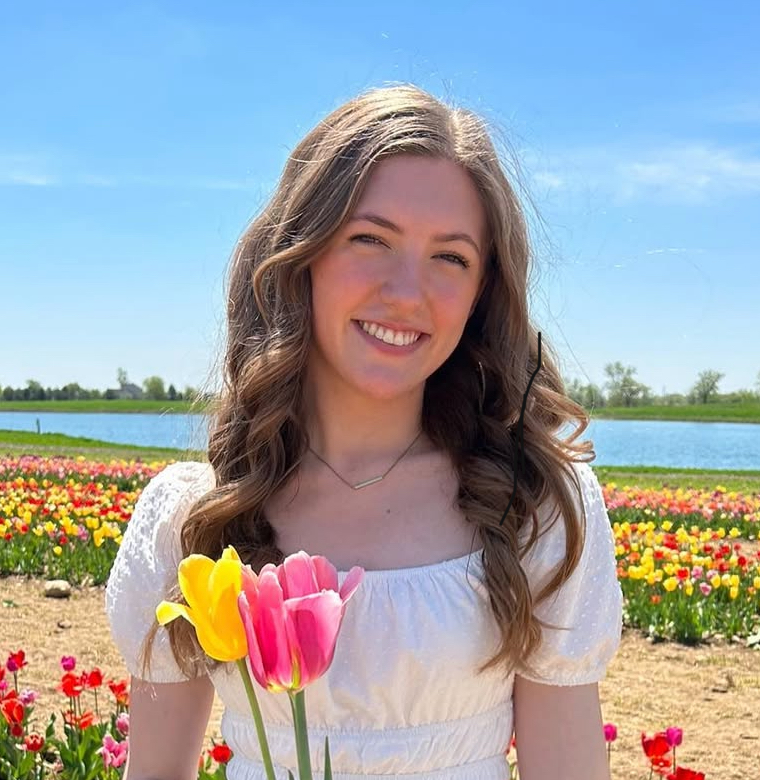
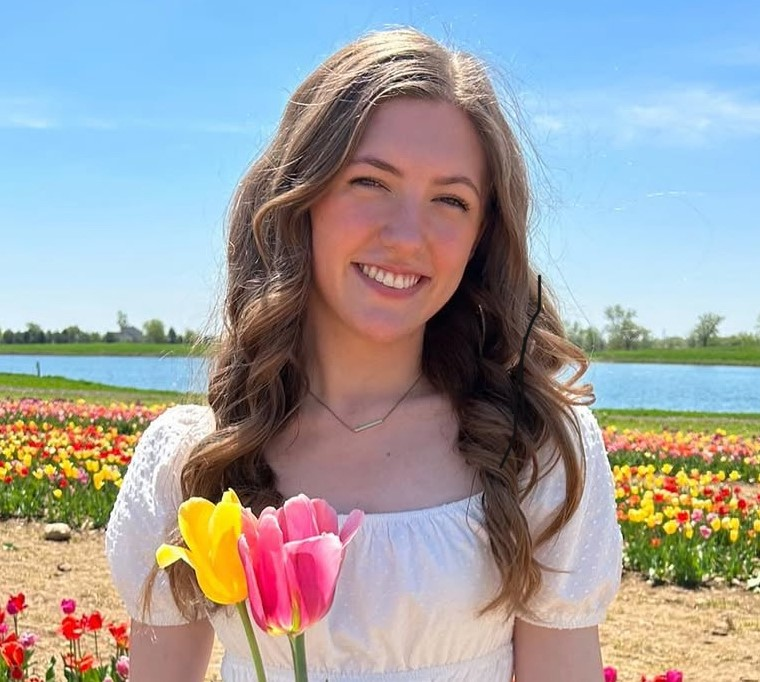
made some styling changes :_)

diff --git a/frontend/pages/about.html b/frontend/pages/about.html
@@ -7,6 +7,7 @@
 
   <link rel="stylesheet" href="/frontend/styles/navigation.css">
   <link rel="stylesheet" href="/frontend/styles/global.css">
+  <link rel="stylesheet" href="/frontend/styles/about.css">
 
   <link rel="preconnect" href="https://fonts.googleapis.com">
   <link rel="preconnect" href="https://fonts.gstatic.com" crossorigin>
@@ -19,7 +20,7 @@
   <title>About - BoilerTechTests</title>
 </head>
 
-<body style="overflow: hidden;">
+<body style="overflow: auto;">
   
   <div id="navbar-load"></div>
 
@@ -35,7 +36,41 @@
       <p class="fade-in" style="--delay: 0.1s">We are a team of four computer science students studying at Purdue University. Our goal is to help other students excel in computer science with a curated selection of quizzes and coding questions!</p>
 			<p class="fade-in" style="--delay: 0.1s">To start studying as a guest, visit the guest page using the navigation bar! If you wish to save your progress, you can make at account with us by clicking the profile icon.</p>
       <h4 class="fade-in" style="--delay: 0.1s">Please note that our website is still in development, so some features may be missing or have minor bugs. Thank you for your support!</h4>
+    
+      <h2 class="fade-in">Meet the Team!</h2>
+      <div class="column">
+        <div>
+          <h3 style="--delay: 0.1s; margin-bottom: 2px;">Evelyn Merz</h3>
+          <img width="400" height="400" src="/frontend/images/evelyn_headshot.jpg" alt="Headshot of Evelyn in pink shirt">
+          <p>Primary Role(s): In-site Coding Environment Manager, Fullstack Developer</p>
+          <a class="button" href="mailto:merze@purdue.edu">Contact</a>
+        </div>
+
+        <div>
+          <h3 style="--delay: 0.1s; margin-bottom: 2px;">Emma Patrick</h3>
+          <img width="400" height="400" src="/frontend/images/emma_headshot.jpg" alt="Headshot of Emma in white shirt">
+          <p>Primary Role(s): Database Manager, Fullstack Developer</p>
+          <a class="button" href="mailto:ecpatric@purdue.edu">Contact</a>
+        </div>
+
+        <div>
+          <h3 style="--delay: 0.1s; margin-bottom: 2px;">Connor Colbert</h3>
+          <img width="400" height="400" src="/frontend/images/connor_headshot.png" alt="Headshot of Connor in green shirt">
+          <p>Primary Role(s): Frontend Stylist, Fullstack Developer</p>
+          <a class="button" href="mailto:colberj@purdue.edu">Contact</a>
+        </div>
+
+        <div>
+          <h3 style="--delay: 0.1s; margin-bottom: 2px;">Megan Bechtlofft</h3>
+          <img width="400" height="300" src="/frontend/images/megan_headshot.jpg" alt="Headshot of Megan in white dress">
+          <p>Primary Role(s): Quiz Manager, Fullstack Developer</p>
+          <a class="button" href="mailto:bechtlo@purdue.edu">Contact</a>
+        </div>
+
     </div>
+
+    </div>
+
 		<div id="spacer"></div>
 		<div id="spacer"></div>
 		<div id="spacer"></div>

diff --git a/frontend/pages/tutoring.html b/frontend/pages/tutoring.html
@@ -6,6 +6,7 @@
   <meta name="viewport" content="width=device-width, initial-scale=1, shrink-to-fit=no">
 
   <link rel="stylesheet" href="/frontend/styles/navigation.css">
+  <link rel="stylesheet" href="/frontend/styles/tutoring.css">
   <link rel="stylesheet" href="/frontend/styles/global.css">
 
   <link rel="preconnect" href="https://fonts.googleapis.com">
@@ -41,7 +42,7 @@
         <p>Availability: Tuesdays @ 4:30PM, Fridays @ 10AM</p>
         <a class="button" href="mailto:colberj@purdue.edu">Book a Session</a>
       </div>
-
+      <div id="spacer"></div>
       <div>
         <h3 style="--delay: 0.1s; margin-bottom: 2px;">Evelyn Merz</h3>
         <img width="400" height="400" src="/frontend/images/evelyn_headshot.jpg" alt="Headshot of Evelyn in pink shirt">
@@ -49,7 +50,7 @@
         <p>Availability: Wednesdays @ 12:30PM, Thursdays @ 5PM, Saturdays @ 2PM, </p>
         <a class="button" href="mailto:merze@purdue.edu">Book a Session</a>
       </div>
-
+      <div id="spacer"></div>
       <div>
         <h3 style="--delay: 0.1s; margin-bottom: 2px;">Emma Patrick</h3>
         <img width="400" height="400" src="/frontend/images/emma_headshot.jpg" alt="Headshot of Emma in white shirt">
@@ -57,7 +58,7 @@
         <p>Availability: Mondays @ 2:30PM, Sundays @ 10AM and 1PM</p>
         <a class="button" href="mailto:ecpatric@purdue.edu">Book a Session</a>
       </div>
-
+      <div id="spacer"></div>
       <div>
         <h3 style="--delay: 0.1s; margin-bottom: 2px;">Megan Bechtlofft</h3>
         <img width="400" height="400" src="/frontend/images/megan_headshot.jpg" alt="Headshot of Megan in white dress">
@@ -65,7 +66,7 @@
         <p>Availability: Tuesdays @ 4:30PM, Fridays @ 11AM, Wednesdays @ 7PM</p>
         <a class="button" href="mailto:bechtlo@purdue.edu">Book a Session</a>
       </div>
-      
+      <div id="spacer"></div>
 
     </div>
   </div>

diff --git a/frontend/styles/about.css b/frontend/styles/about.css
@@ -1,0 +1,28 @@
+.column {
+    display: grid;
+    grid-template-columns: repeat(2, 1fr); /* Two columns by default */
+    gap: 20px; /* Space between grid items */
+    justify-items: center; /* Center-align content horizontally */
+    margin: auto;
+    max-width: 800px; /* Optional: limit the grid's width */
+  }
+  
+  .column img {
+    max-width: 100%; /* Ensure images fit their container */
+    height: auto; /* Maintain aspect ratio */
+    border-radius: 10px; /* Optional: rounded corners for images */
+  }
+  
+  .column > div {
+    text-align: center; /* Center-align content within each grid item */
+    padding: 10px; /* Add some padding around each team member's card */
+    box-sizing: border-box;
+  }
+  
+  /* Stack items vertically on small screens */
+  @media (max-width: 768px) {
+    .column {
+      grid-template-columns: 1fr; /* One column for smaller screens */
+    }
+  }
+  

diff --git a/frontend/styles/tutoring.css b/frontend/styles/tutoring.css
@@ -1,7 +1,21 @@
-img {
-  padding: 0;
-  display: block;
-  margin: 0 auto;
-  max-height: 100%;
-  max-width: 100%;
+.column img {
+  max-width: 100%; /* Ensure images never overflow their container */
+  height: auto; /* Maintain aspect ratio */
+  display: block; /* Avoid inline-block alignment issues */
+  margin: 0 auto; /* Center-align images */
+  border-radius: 10px; /* Optional: rounded corners for images */
+}
+
+.column > div {
+  flex: 1 1 calc(50% - 20px); /* Two cards per row */
+  max-width: 500px; /* Limit width of cards */
+  box-sizing: border-box;
+  text-align: center; /* Center-align content within the cards */
+}
+
+/* Adjust layout for smaller screens */
+@media (max-width: 768px) {
+  .column > div {
+    flex: 1 1 100%; /* Stack cards vertically */
+  }
 }
